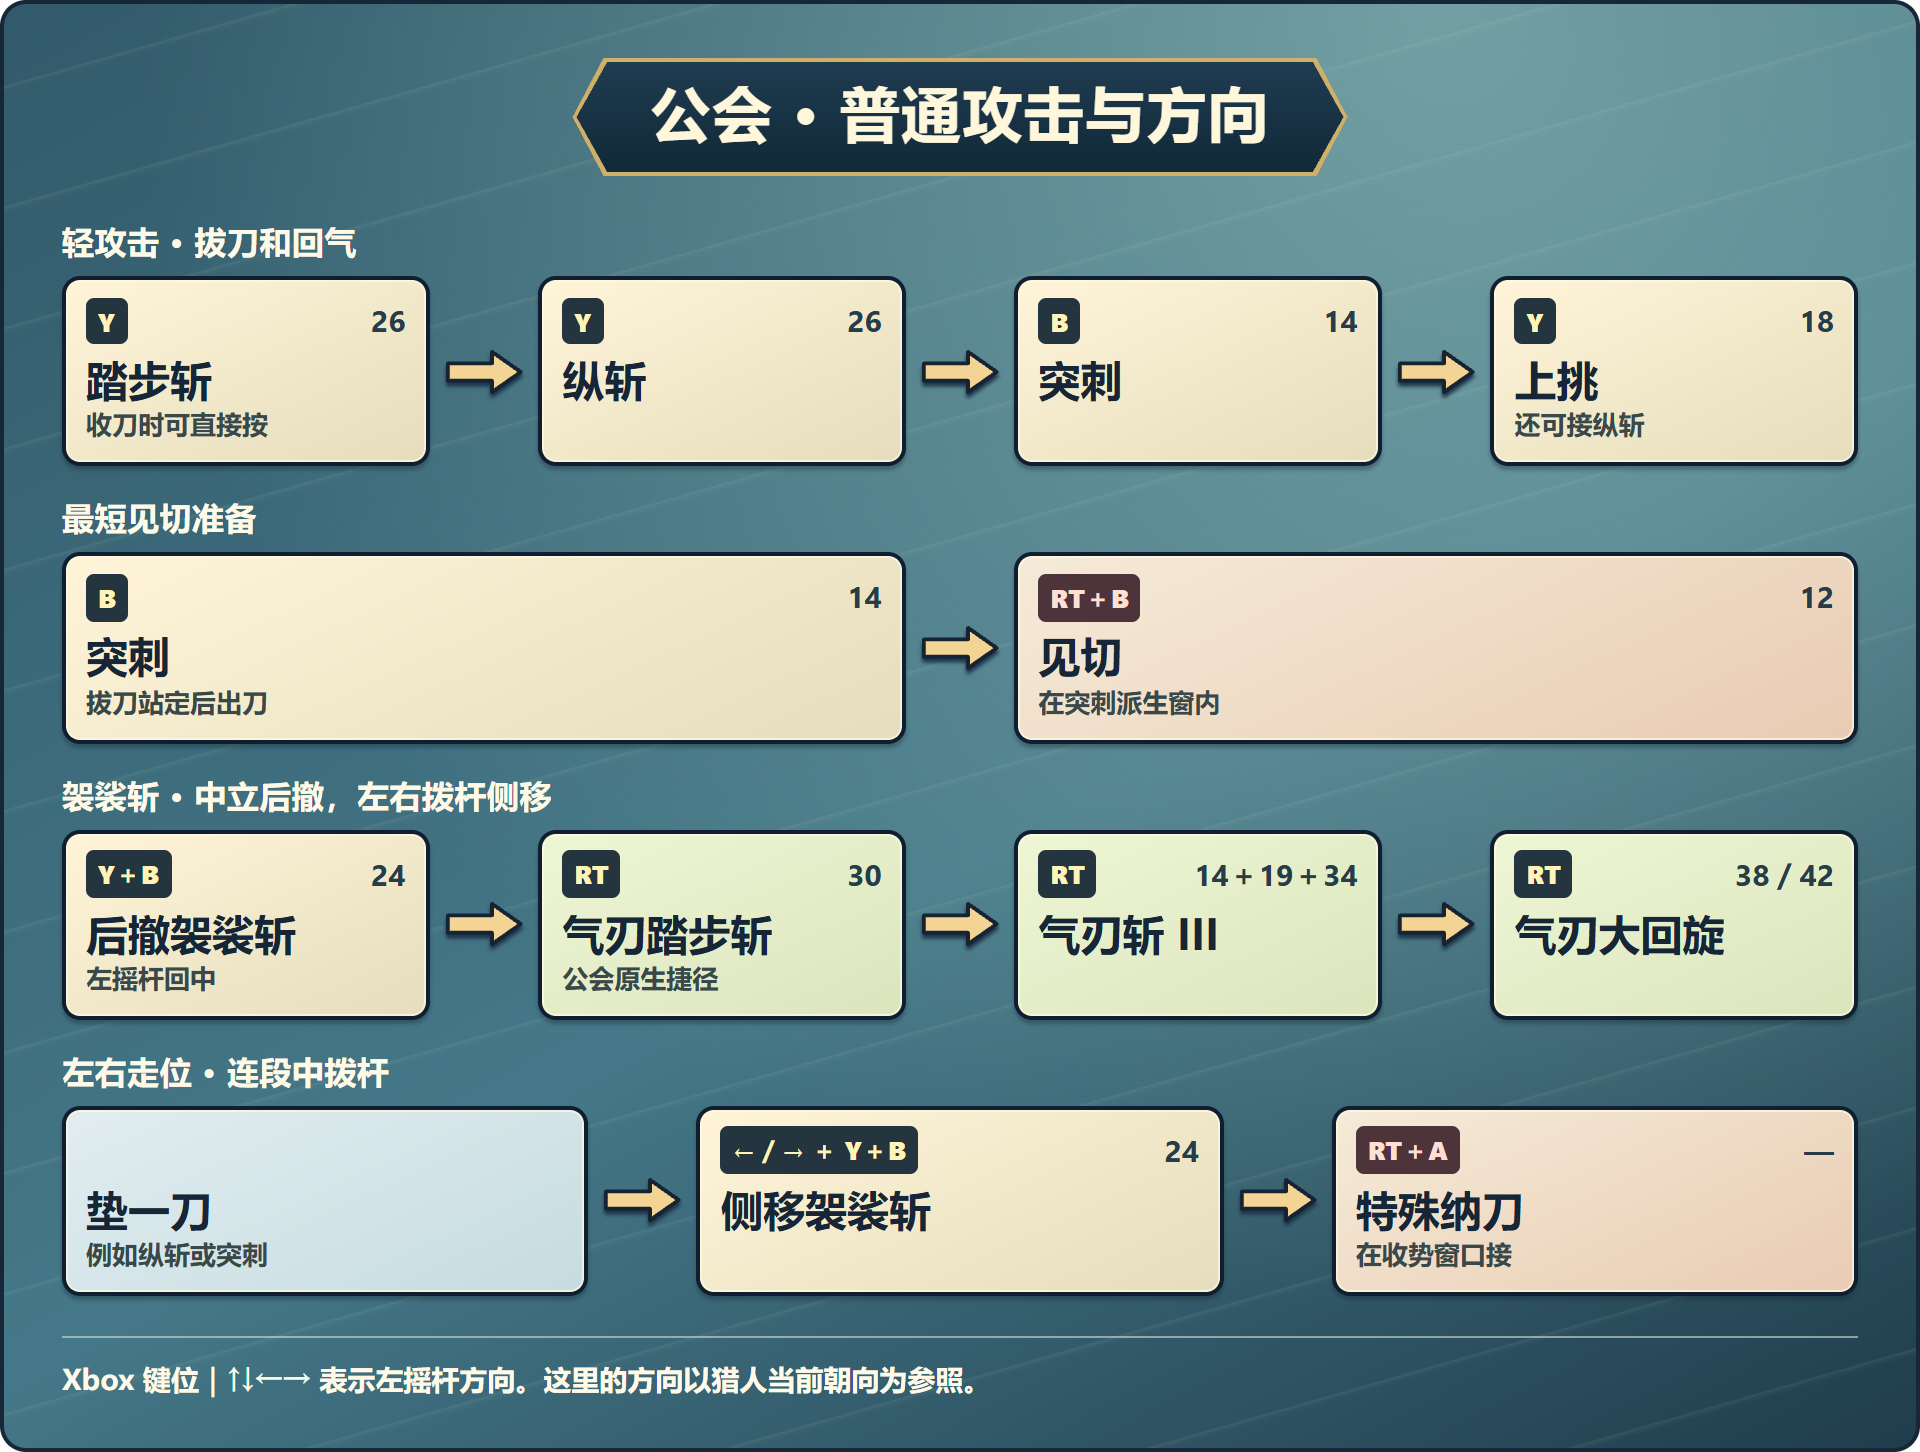
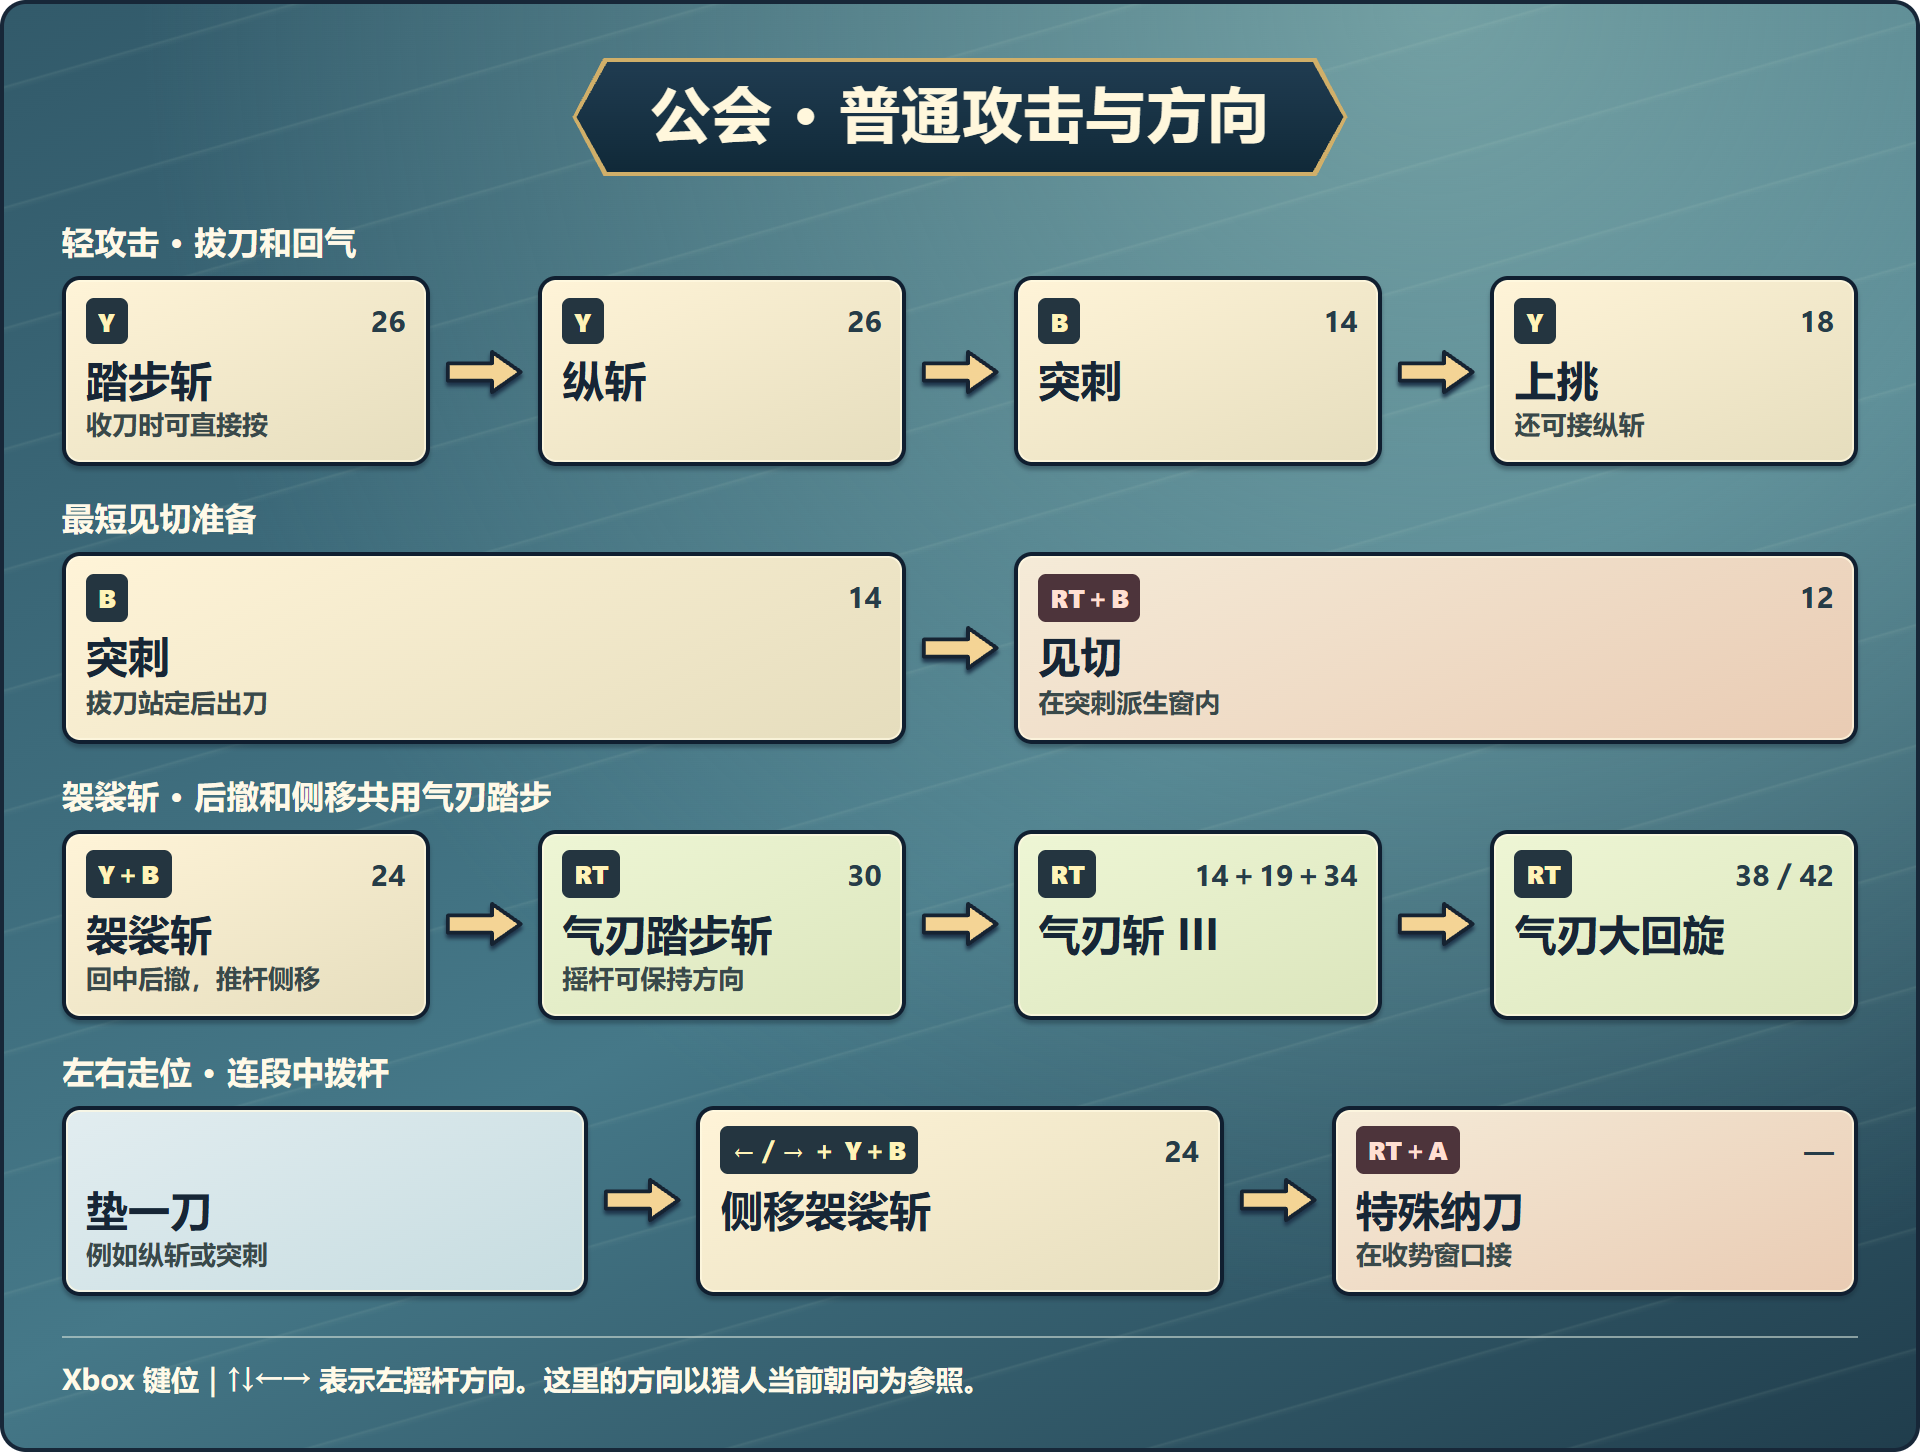
Preserve native Long Sword links and resolve finisher input timing

Changed region(s): [[0.0312, 0.6198, 0.1875, 0.6818], [0.0938, 0.5269, 0.2812, 0.5579], [0.2812, 0.6508, 0.4062, 0.6818]]

diff --git a/README.md b/README.md
@@ -2,13 +2,13 @@
 
 把《世界／冰原》的见切、居合、登龙和《荒野》的赤刃、气刃蓄力、练气解放带进《怪物猎人 GU》。六种狩猎风格都能用这套太刀，勇气刚气刃、武士道无双斩等原生招式仍可使用。
 
-**[下载 v1.2.10 整合包](https://github.com/skeyep/MHGU-Yuzu-ZR/releases/download/v1.2.10/MHGU-Yuzu-ZR-v1.2.10.zip)** · [更新记录](CHANGELOG.md) · [来源与修改说明](SOURCES.md) · [项目源码](source/BUILD.md)
+**[下载 v1.2.11 整合包](https://github.com/skeyep/MHGU-Yuzu-ZR/releases/download/v1.2.11/MHGU-Yuzu-ZR-v1.2.11.zip)** · [更新记录](CHANGELOG.md) · [来源与修改说明](SOURCES.md) · [项目源码](source/BUILD.md)
 
 适用 **Windows Yuzu 1734** 和 **MHGU 国际版 1.4.0**（`0100770008DD8000`）。包内有太刀、Forge 1.5.1、伤害跳字、快捷轮盘和可选 Xbox 按键提示。游戏、模拟器、存档和密钥由玩家自行准备。
 
 ## 安装
 
-1. 退出游戏。下载并解压 Releases 中的 `MHGU-Yuzu-ZR-v1.2.10.zip`，双击 **Install.cmd**。
+1. 退出游戏。下载并解压 Releases 中的 `MHGU-Yuzu-ZR-v1.2.11.zip`，双击 **Install.cmd**。
 2. 如果安装器列出重复的太刀、Forge、跳字或轮盘插件，把对应旧目录移到游戏模组目录之外，再运行安装器。
 3. 到 Yuzu 的游戏属性，启用 **MHGU-ZR-Integrated**。启用 **MHGU-Xbox-Prompts** 可显示 Xbox 按键。切换提示后重启游戏。
 4. 在 Yuzu 控制器配置里确认 Xbox **RT 对应 ZR**，**RB 对应 R**，**LT 对应 ZL**，**LB 对应 L**。
@@ -27,7 +27,7 @@
 | 在可派生的攻击后长按 RT | 气刃蓄力。气刃 III 后起蓄保留终结段。按住可走停，松键出刀。 |
 | RB | 拔刀时收刀。继续按住并推摇杆可奔跑。 |
 
-红刃普通 **Y** 拔刀出赤刃 I，原地短按 **RT** 可接气刃 I。红刃大回旋收势时重新按 **RT** 可接气刃旋转斩。空中是单刀还是三连斩，由 GU 原生的风格、刃色和气刃槽条件决定。
+红刃普通 **Y** 拔刀出赤刃 I，原地短按 **RT** 可接气刃 I。红刃大回旋收势时，单按 **RT** 接气刃旋转斩，**RT＋A** 接特殊纳刀。空中是单刀还是三连斩，由 GU 原生的风格、刃色和气刃槽条件决定。
 
 **狩技**用游戏的 **2 型操作**。LT＋Y、LT＋X、LT＋A 分别对应第 1、2、3 个狩技，优先于太刀连段。**快捷轮盘**在任务内按住 LB，用右摇杆选道具。首次安装默认放在右下，图标为 Xbox 风格。轮盘的设置在游戏菜单第 3 页。
 
@@ -37,7 +37,7 @@
 
 ### 公会
 
-**普通斩与走位。** 拔刀站定后可以用 B 突刺垫刀，再接见切。Y＋B 可出袈裟斩，连段中配合摇杆可侧移。
+**普通斩与走位。** 拔刀站定后可以用 B 突刺垫刀，再接见切。Y＋B 可出袈裟斩，连段中配合摇杆可侧移。公会三种袈裟收势都可按 RT 接气刃踏步斩，摇杆可以保持方向。
 
 ![公会普通攻击、垫刀、后撤和侧移](docs/guild-basic.webp)
 
@@ -45,7 +45,7 @@
 
 ![公会重攻击、轻击插入、方向气刃与蓄力分支](docs/guild-spirit.webp)
 
-**见切、纳刀、居合。** 非红刃见切先迎击并打中回斩，再按 RT 接大回旋。小居合收势时按 RT＋A 可再次特殊纳刀。大居合 GP 成功后，短按 RT 走气刃 III 路线，RT＋A 可再次纳刀。长按 RT 按 GP 成败进入 III 或 II 段蓄力，RT＋Y 在两种情况下都可接气刃突刺。升刃需要 GP 成功且刀命中。 [大小居合的派生](docs/combos.md#大小居合的派生)
+**见切、纳刀、居合。** 非红刃见切先迎击并打中回斩，再按 RT 接大回旋。小居合收势时按 RT＋A 可再次特殊纳刀。大居合 GP 成功后，收势时重新短按 RT 走气刃 III 路线，RT＋A 可再次纳刀。长按 RT 按 GP 成败进入 III 或 II 段蓄力，RT＋Y 在两种情况下都可接气刃突刺。升刃需要 GP 成功且刀命中。 [大小居合的派生](docs/combos.md#大小居合的派生)
 
 ![先垫刀再见切、特殊纳刀、大小居合与 GP 成败分支](docs/guild-counter.webp)
 
@@ -85,7 +85,7 @@
 
 ## English quick start
 
-For **Windows Yuzu 1734** and **international MHGU 1.4.0**. Download the [v1.2.10 release ZIP](https://github.com/skeyep/MHGU-Yuzu-ZR/releases/tag/v1.2.10), close the game, extract it, and run **Install.cmd**. Enable **MHGU-ZR-Integrated** and optionally **MHGU-Xbox-Prompts** in Yuzu.
+For **Windows Yuzu 1734** and **international MHGU 1.4.0**. Download the [v1.2.11 release ZIP](https://github.com/skeyep/MHGU-Yuzu-ZR/releases/tag/v1.2.11), close the game, extract it, and run **Install.cmd**. Enable **MHGU-ZR-Integrated** and optionally **MHGU-Xbox-Prompts** in Yuzu.
 
 The moveset brings Foresight, Special Sheathe, Iai, Helm Breaker, Crimson Slash, Spirit Charge, and Spirit Release to all six hunting styles. **RT** (Switch ZR) handles Spirit attacks, including aerial draws. **RT+A** is Special Sheathe, **RT+B** is Foresight, and **RT+Y** is Spirit Thrust. Hold **LB** for the item wheel. Use Type 2 controls for Hunter Arts with **LT+Y**, **LT+X**, and **LT+A**.
 

diff --git a/CHANGELOG.md b/CHANGELOG.md
@@ -1,5 +1,12 @@
 # 更新记录
 
+## 1.2.11
+
+- 公会袈裟收势按 RT 接原生气刃踏步斩，摇杆可保持方向。
+- 气刃 I、II、III 后的蓄力使用不同起手姿态。走停和松键沿用各段蓄力进度。
+- 红刃大回旋收势区分 RT 单按和 RT＋A 特殊纳刀。大居合成功后的气刃 III 从 F70 起读取新的 RT。
+- 红刃大回旋收刀末段可用 Y 拔刀出赤刃 I。武士道大居合成功后的一文字使用原生拖刀起手。
+
 ## 1.2.10
 
 - 武士道大居合反击成功后，按 Y 可接原生一文字斩。气刃足够时接 RT 无双斩，收势按 RT＋A 接特殊纳刀。精准回避后的原生路线也可用。
